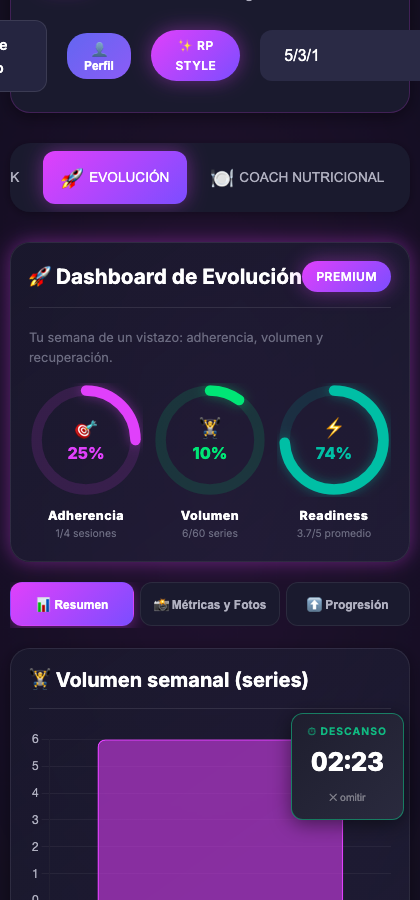
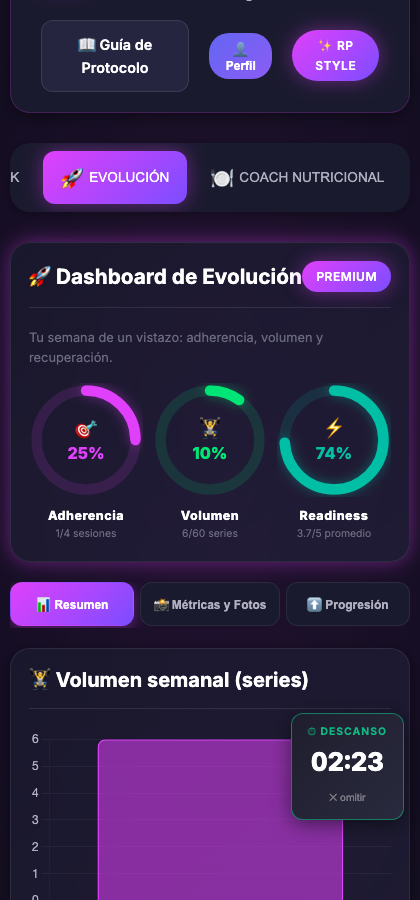
Eliminar selector global de metodología del header (feedback de Salvador)
Era redundante y confuso: la metodología la define la rutina activa generada
en el wizard de ENTRENAMIENTO. Ahora state.selectedMethodology se sincroniza
automáticamente desde rpCoach_active_routine en cada cambio de módulo, y las
gráficas/RIR/timer leen esa fuente única de verdad. SW → v5.

Verificación: test-premium 18/18, test-auditoria 0, dogfood 0 fricciones.

diff --git a/NEXUS-RP_Coach/js/rp-coach.js b/NEXUS-RP_Coach/js/rp-coach.js
@@ -139,7 +139,7 @@ const RPCoachApp = (() => {
         // Cargar metodologías
         if (window.MethodologiesSyncModule) {
             await MethodologiesSyncModule.loadMethodologies();
-            await populateMethodologySelector();
+            syncMethodologyFromRoutine();
         }
 
         // Inicializar Calculadora de RM
@@ -154,19 +154,17 @@ const RPCoachApp = (() => {
     }
 
     /**
-     * Llena el selector de metodologías
+     * Sincroniza la metodología activa desde la rutina (fuente de verdad).
+     * El selector global del header se eliminó: la metodología la decide
+     * el wizard de ENTRENAMIENTO al generar la rutina.
      */
-    async function populateMethodologySelector() {
-        const selector = document.getElementById('methodology-selector');
-        if (!selector) return;
-
-        const methodologies = await MethodologiesSyncModule.getMethodologyList();
-
-        selector.innerHTML = methodologies.map(m =>
-            `<option value="${m.id}" ${m.id === state.selectedMethodology ? 'selected' : ''}>
-                ${m.name}
-            </option>`
-        ).join('');
+    function syncMethodologyFromRoutine() {
+        try {
+            const routine = JSON.parse(localStorage.getItem('rpCoach_active_routine') || 'null');
+            if (routine?.methodology) {
+                state.selectedMethodology = routine.methodology;
+            }
+        } catch { }
     }
 
     /**
@@ -188,16 +186,6 @@ const RPCoachApp = (() => {
                 switchModule('profile');
                 // Resaltar botón activo
                 document.querySelectorAll('.nav-tab').forEach(t => t.classList.remove('active'));
-            });
-        }
-
-        // Selector de metodología
-        const methodSelector = document.getElementById('methodology-selector');
-        if (methodSelector) {
-            methodSelector.addEventListener('change', (e) => {
-                state.selectedMethodology = e.target.value;
-                saveState();
-                updateModuleWithMethodology();
             });
         }
 
@@ -514,6 +502,7 @@ const RPCoachApp = (() => {
             moduleName = 'evolution';
         }
         state.currentModule = moduleName;
+        syncMethodologyFromRoutine();
         saveState();
 
         // Actualizar tabs activas
@@ -2414,13 +2403,8 @@ const RPCoachApp = (() => {
             if (typeof ProgressChartsModule !== 'undefined') {
                 ProgressChartsModule.renderDashboardCharts('dashboard-charts');
 
-                // Pasar el ID de la metodología (value), no el texto visible:
-                // el texto puede ser "Cargando metodologías..." y rompe el lookup
-                let methodName = state.selectedMethodology;
-                const methodSelector = document.getElementById('methodology-selector');
-                if (methodSelector && methodSelector.value && methodSelector.options.length) {
-                    methodName = methodSelector.value;
-                }
+                // La metodología viene de la rutina activa (sincronizada en switchModule)
+                const methodName = state.selectedMethodology || 'Y3T';
 
                 ProgressChartsModule.drawMesocycleProgressionChart(
                     'mesocycle-progression-chart',
@@ -2659,11 +2643,6 @@ const RPCoachApp = (() => {
     /**
      * Actualiza módulos cuando cambia la metodología
      */
-    function updateModuleWithMethodology() {
-        renderCurrentModule();
-        updateRIRDisplay();
-    }
-
     // Utilidades auxiliares
     function formatVolume(volume) {
         if (volume >= 1000) {

diff --git a/NEXUS-RP_Coach/index.html b/NEXUS-RP_Coach/index.html
@@ -419,9 +419,8 @@
                     👤 Perfil
                 </button>
                 <span class="rp-badge">✨ RP Style</span>
-                <select id="methodology-selector" class="form-select" style="width: auto; min-width: 200px;">
-                    <option value="Y3T">Cargando metodologías...</option>
-                </select>
+                <!-- El selector global de metodología se eliminó: la metodología
+                     la define la rutina activa (wizard de ENTRENAMIENTO) -->
             </div>
         </header>
 

diff --git a/NEXUS-RP_Coach/service-worker.js b/NEXUS-RP_Coach/service-worker.js
@@ -4,7 +4,7 @@
  * - Open Food Facts: stale-while-revalidate (el escáner y las sugerencias
  *   funcionan dentro del súper aunque se pierda la señal).
  */
-const CACHE_VERSION = 'rp-coach-v4';
+const CACHE_VERSION = 'rp-coach-v5';
 const STATIC_CACHE = CACHE_VERSION + '-static';
 const RUNTIME_CACHE = CACHE_VERSION + '-runtime';
 const OFF_CACHE = CACHE_VERSION + '-openfoodfacts';
